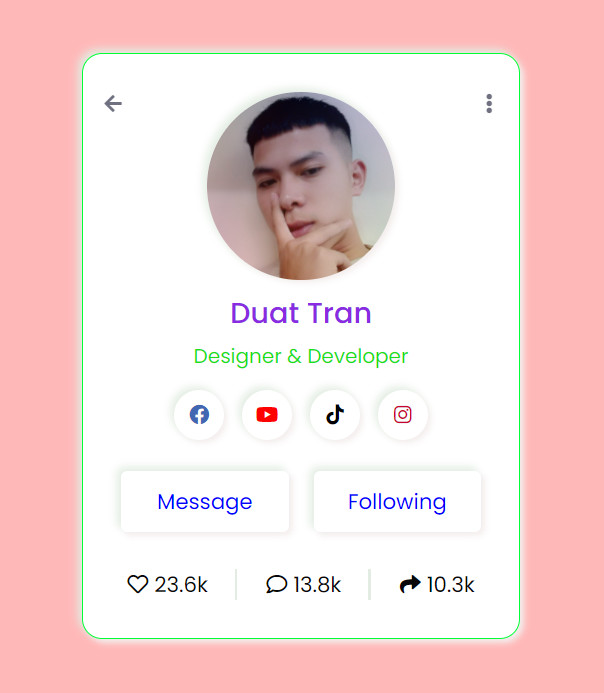
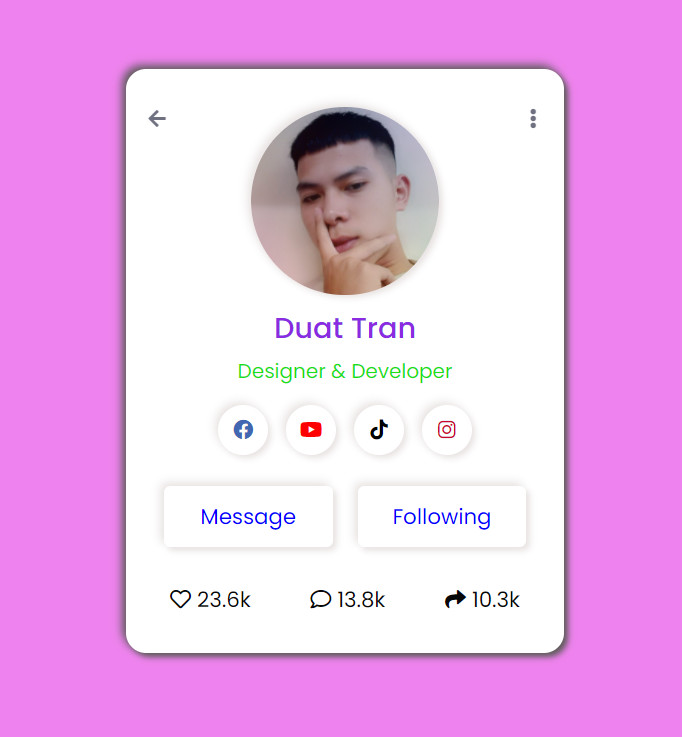
Update file :anchor:

diff --git a/Profile_Card/style.css b/Profile_Card/style.css
@@ -12,24 +12,31 @@ body{
     align-items: center;
     justify-content: center;    /*căn toàn bộ body vào giữa*/
     min-height: 100vh;          /* đưa vào trung tâm*/
-    background: #ffb8b8;
+    background: violet;
 }
 
-/*tạo màu đổ bóng cho cả box trong box ngoài*/
-.wrapper,
+/*định dạng riêng cho box*/
+.wrapper{
+    background: rgb(255, 255, 255);
+    border-radius: 16px;        /*border-radius: bo đều 4 cạnh góc vuông 15px*/    
+    box-shadow: -3px -3px 7px rgb(94, 91, 91),  /*đổ bóng hướng trái trên*/
+                3px 3px 5px rgb(94, 91, 91);  /*đổ bóng hướng phải dưới*/
+
+}
+/*tạo màu đổ bóng cho cả box trong  và icon */
 .wrapper .img-area,
 .social-icons a,
 .buttons button{
     background: rgb(255, 255, 255);
     border-radius: 16px;        /*border-radius: bo đều 4 cạnh góc vuông 15px*/    
-    box-shadow: -3px -3px 7px #e2ece2,  /*đổ bóng hướng trái trên*/
-                3px 3px 5px rgb(245, 238, 238);  /*đổ bóng hướng phải dưới*/
+    box-shadow: -3px -3px 7px rgb(233, 227, 227),  /*đổ bóng hướng trái trên*/
+                3px 3px 5px rgb(233, 227, 227);  /*đổ bóng hướng phải dưới*/
 
 }
 
+
 /*class sử dụng dấu . .wrapper định dạng chung cho form*/
 .wrapper{
-    border: 1px solid rgb(0, 255, 55);  /* border: tạo viền có nét 1px màu đỏ*/
     padding: 30px;    
     width: 350px;   /*width: rộng ra*/
     display: flex;  
@@ -68,7 +75,7 @@ body{
 }
 /*định dạng chữ dòng thứ 2 dưới ảnh*/
 .wrapper .about{
-    font-weight: 400%;
+    font-weight: 400px;
     color: rgb(27, 223, 27);   /*màu chữ dòng thứ 2*/
     font-size: 16px;        /*cỡ chữ*/
 }
@@ -101,8 +108,8 @@ body{
     right: 0;
     background: #f1f2f6;
     border-radius: 50%;        /*border-radius: bo tròn là 50%*/    
-    box-shadow: inset -3px -3px 7px #f1eeee,  /*đổ bóng hướng trái trên   | inset tạo độ sau cho nút*/
-                inset 3px 3px 5px rgb(238, 233, 233);  /*đổ bóng hướng phải dưới*/
+    box-shadow: inset -3px -3px 7px #ffffff,  /*đổ bóng hướng trái trên   | inset tạo độ sau cho nút*/
+                inset 3px 3px 5px rgb(255, 255, 255);  /*đổ bóng hướng phải dưới*/
 
 }
 
@@ -125,12 +132,12 @@ body{
 
 /*định dạng cho icon fb*/
 .social-icons a.fb i{
-    color:  #0940ad;
+    color:  #4267B2;
 
 }
-/*định dạng màu cho mixcloud*/
-.social-icons a.mixcloud i{
-    color:  rgb(18, 15, 49);
+/*định dạng màu cho youtobe*/
+.social-icons a.youtube i{
+    color:  red;
 
 }
 /*màu cho tiktok*/
@@ -159,7 +166,7 @@ body{
     padding: 12px 0;
     font-size: 17px;
     font-weight: 400;   
-    border-radius: 5%;
+    border-radius: 5px;
     cursor: pointer;
     color: blue;
     z-index: 5;
@@ -167,11 +174,11 @@ body{
 }
 
 .buttons button:first-child{
-    margin-right: 10%;
+    margin-right: 10px;
 }
 
 .buttons button:last-child{
-    margin-left: 10%;
+    margin-left: 10px;
 }
 
 /*định dạng 3 icon tym comments share*/
@@ -179,7 +186,7 @@ body{
     display: flex;      /*dàn hàng ngang 3 icon*/
     width: 100%;
     margin-top: 30px;   /* margin-top khoảng cách hàng trên 30px*/
-    padding: 0 5%;
+    padding: 0 5px;
     justify-content: space-between;     /*dàn đều khoảng cách giữa 3 icon*/
 }
 
@@ -200,7 +207,6 @@ body{
     content:"";
     width: 2px;     /*width độ dày ( đậm) của đường line khung icon*/
     height:100%;
-    background:#e2ece2;
     margin-left: -25px; /*margin-left: sang bên trái -25px*/
 
 }
@@ -240,10 +246,13 @@ body{
     border-radius: 50%;
     font-size: 16px;
   }
+
   .wrapper .icon i{
     position: relative;
     z-index: 9;
   }
+
+  /*lỗi-----*/
   .wrapper .icon.arrow{
     left: 600px;
     top: 150px;

diff --git a/Profile_Card/index.html b/Profile_Card/index.html
@@ -7,7 +7,6 @@
     <title>Profile card</title>
     <link rel="stylesheet" href="style.css">
     <link rel="stylesheet" href="https://cdnjs.cloudflare.com/ajax/libs/font-awesome/5.15.3/css/all.min.css"/>
-    <link rel="shortcut icon" href="img/avt.jpg">
 </head>
 <body>
     <div class="wrapper">
@@ -22,7 +21,7 @@
         <div class="about">Designer & Developer</div>
         <div class="social-icons">
             <a href="https://www.facebook.com/tran.duat.2368" class="fb"><i class="fab fa-facebook"></i></a>
-            <a href="https://www.mixcloud.com/du%E1%BA%ADt-s%E1%BB%83n3/" class="mixcloud"><i class="fab fa-mixcloud"></i></a>
+            <a href="https://www.youtube.com/channel/UCfeouV-ojb4fRm9F4eHrPnw" class="youtube"><i class="fab fa-youtube"></i></a>
             <a href="https://www.tiktok.com/@duat36?lang=vi-VN&is_copy_url=1&is_from_webapp=v1" class="tiktok"><i class="fab fa-tiktok"></i></a>
             <a href="https://www.instagram.com/tranduat2368/" class="instagram"><i class="fab fa-instagram"></i></a>
         </div>
